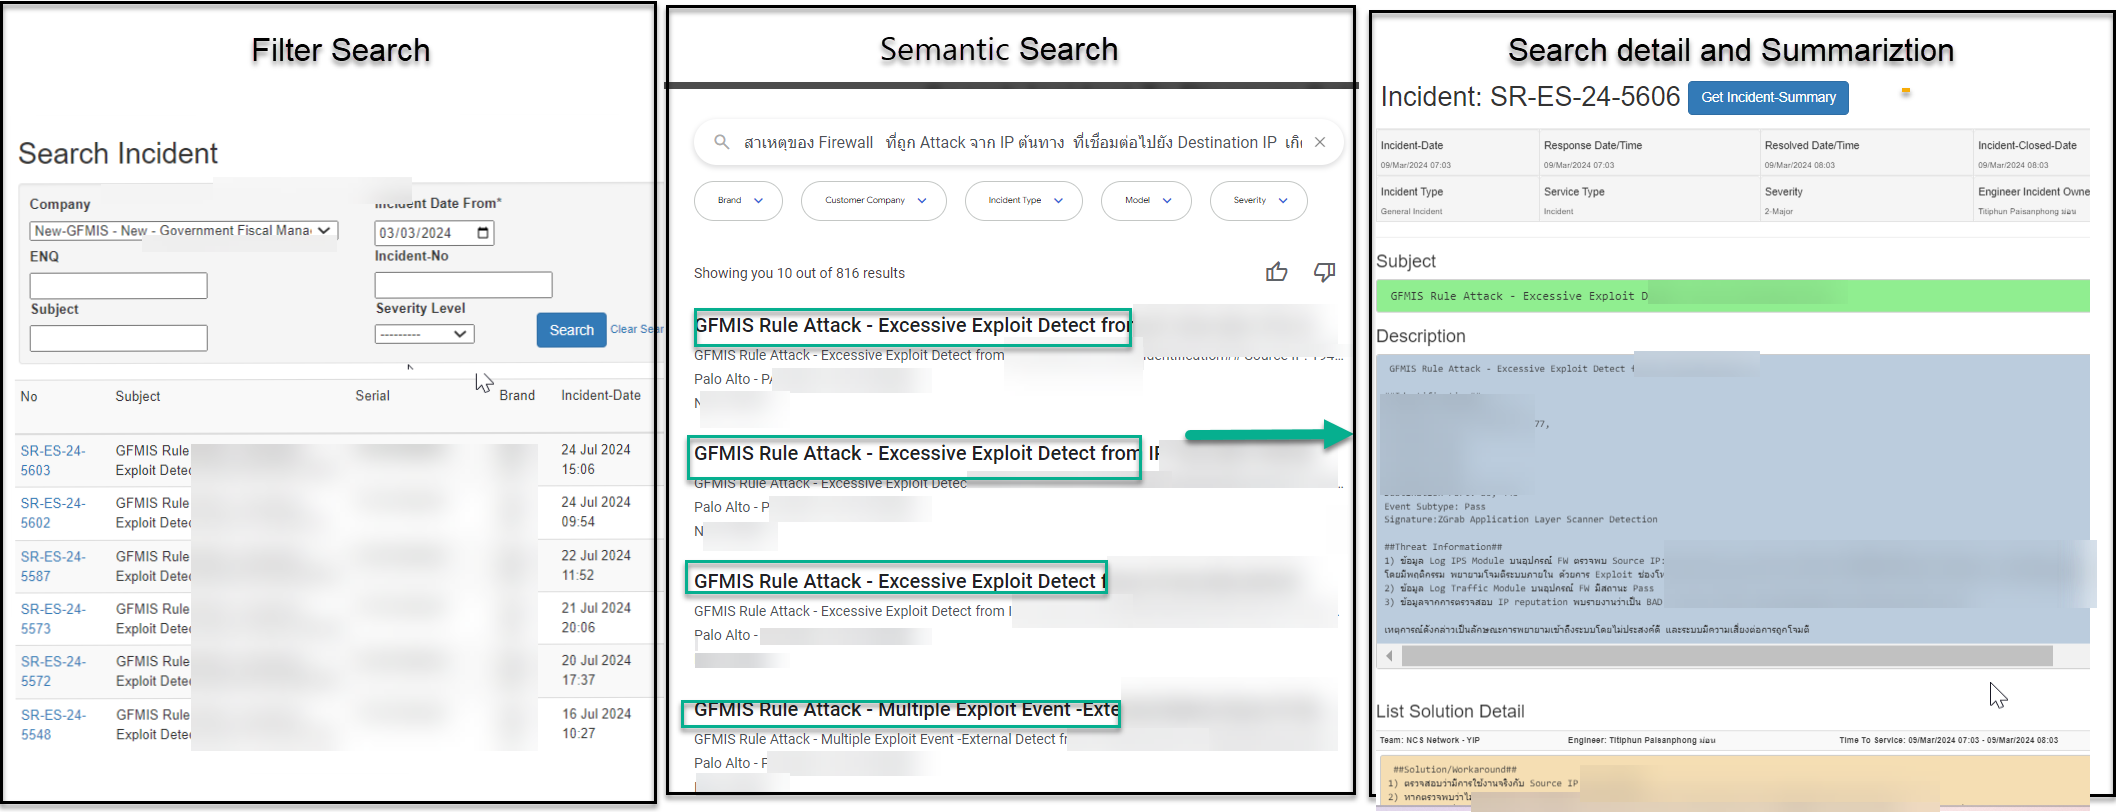
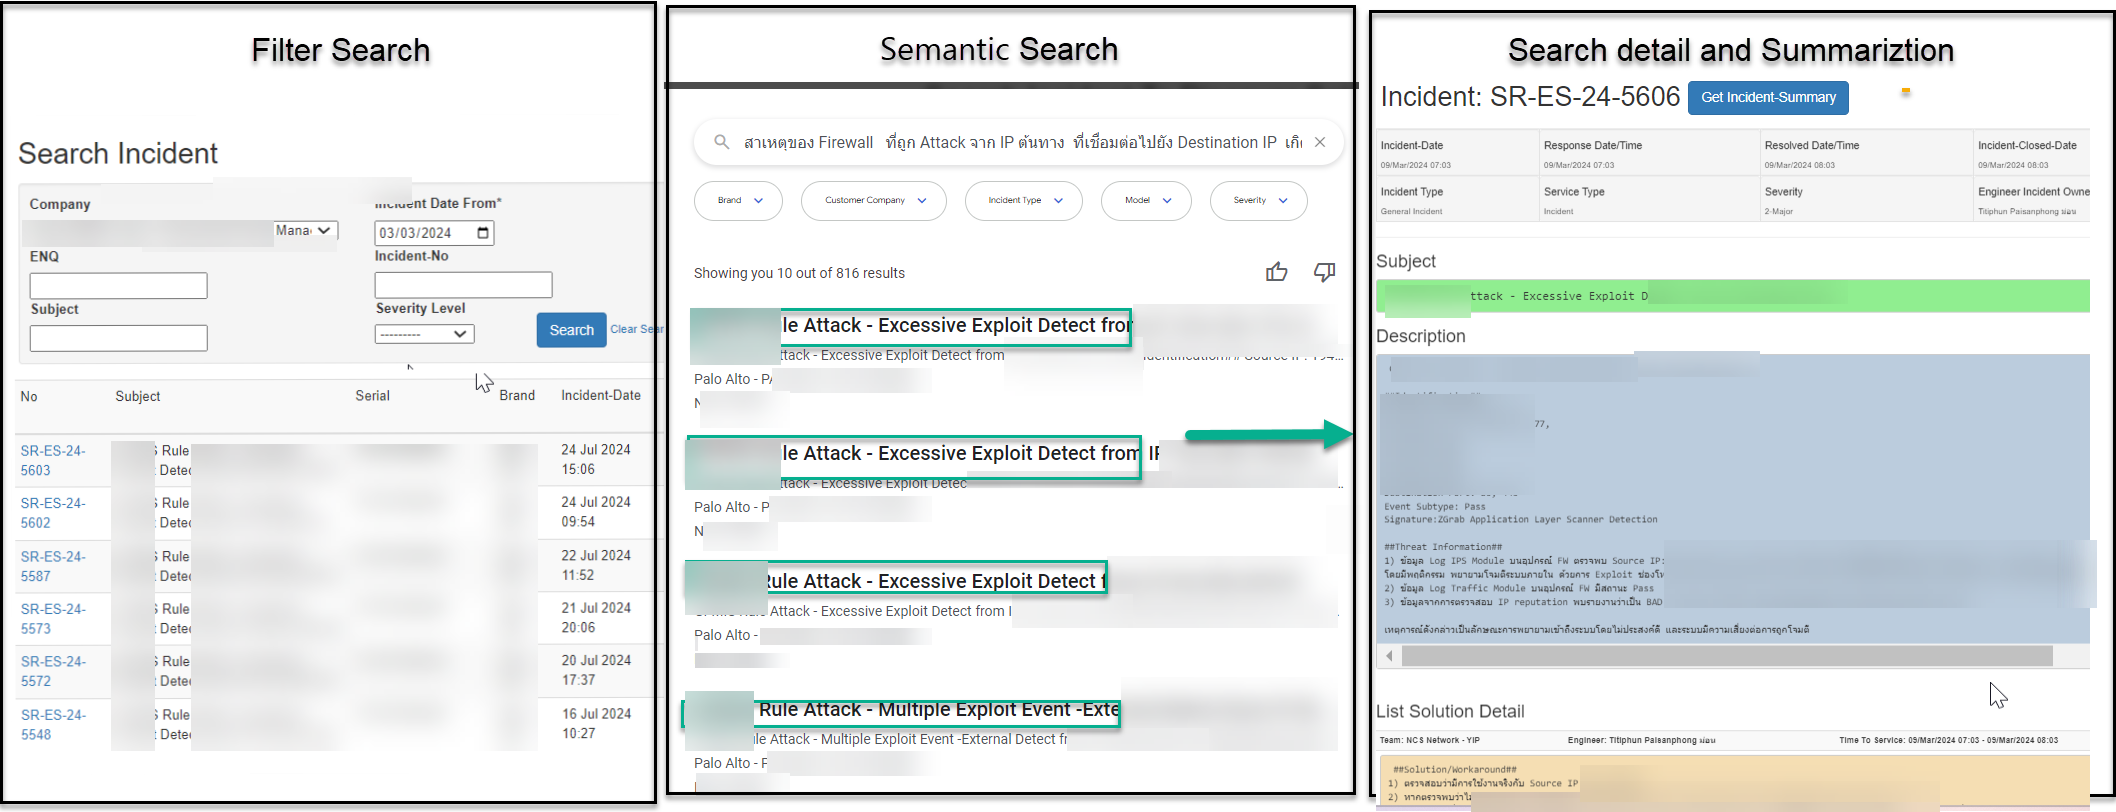
ok

diff --git a/README.md b/README.md
@@ -1,7 +1,7 @@
 # SMart-SemanticSearch-Summarization
 Build Enterprise Search using [Vertex AI Search](https://cloud.google.com/vertex-ai-search-and-conversation?hl=en) and Text Summarization using  [Google Generative-AI Model](https://cloud.google.com/vertex-ai/docs/generative-ai/learn/introduction-prompt-design) for IT Incident of [SMartApp](https://github.com/technqvi/SMartApp). The figure and description below how it works. 
 ### Incident Search (Vertex AI Semantic Search) 
-<img src="seach-to-summary.png">
+<img src="filter-semantic-seach-summary.png">
 <img width="998" alt="overview" src="https://github.com/technqvi/SMartSearch-Summarization/assets/38780060/b028d869-b75e-473c-9c38-8dd7cec69347">
 
 
